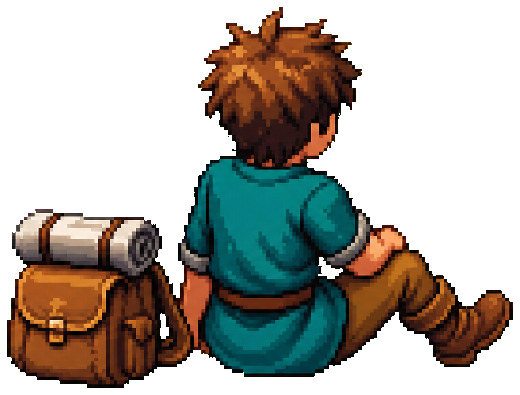
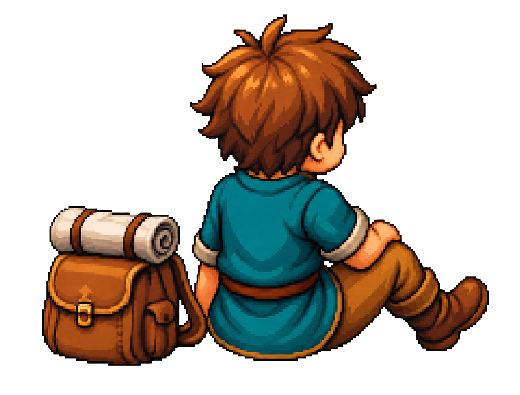
feat: refresh about hero traveler

diff --git a/vite.config.ts b/vite.config.ts
@@ -5,4 +5,9 @@ import react from '@vitejs/plugin-react'
 export default defineConfig({
   plugins: [react()],
   base: '/siyuan_website/',
+  server: {
+    watch: {
+      ignored: ['**/formal/**/.lake/**'],
+    },
+  },
 })

diff --git a/src/index.css b/src/index.css
@@ -485,8 +485,8 @@ samp {
   position: absolute;
   z-index: 3;
   left: 39%;
-  bottom: 17%;
-  width: 10%;
+  bottom: 14.5%;
+  width: 11.5%;
   height: auto;
   image-rendering: pixelated;
   pointer-events: none;